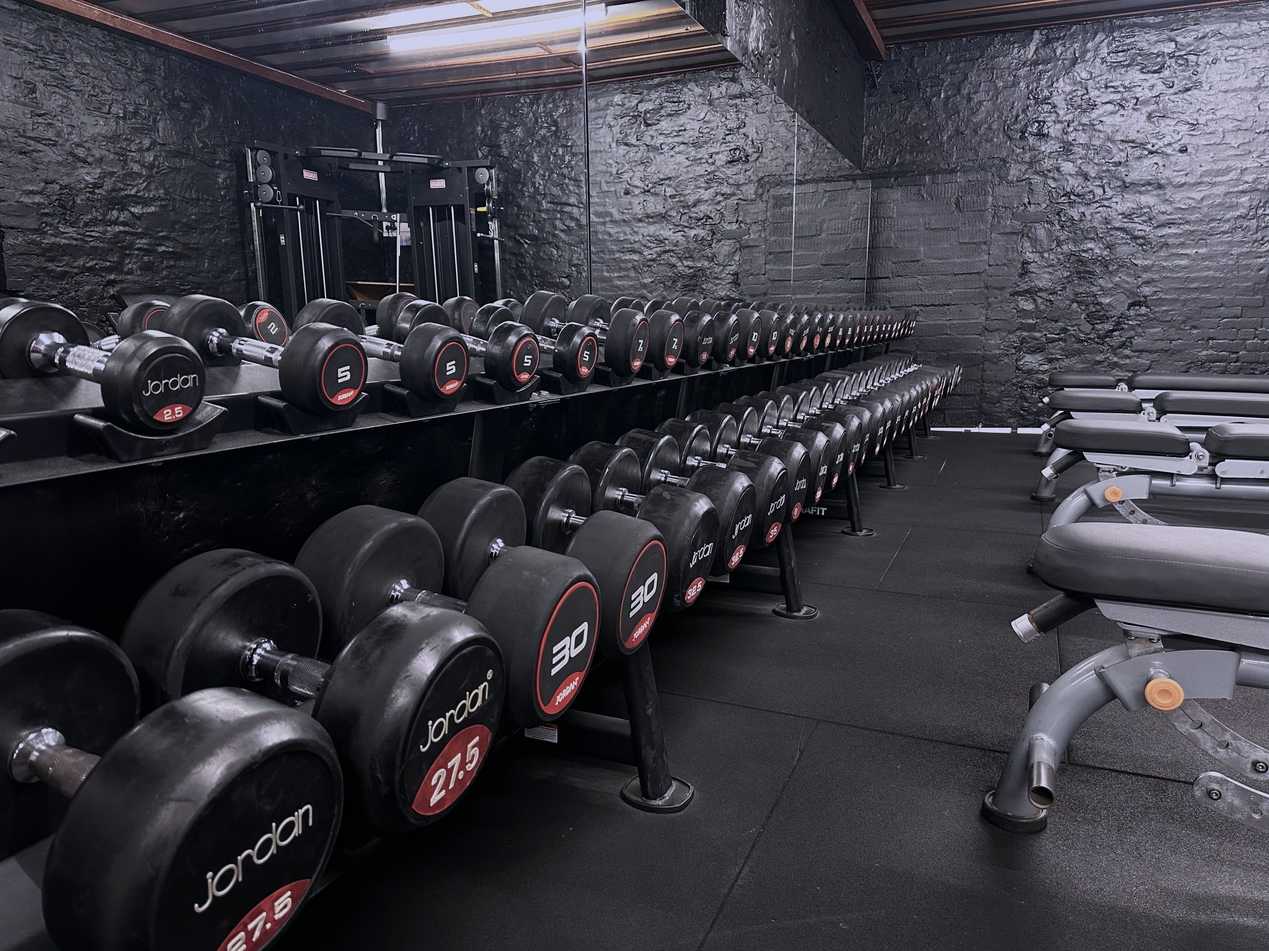
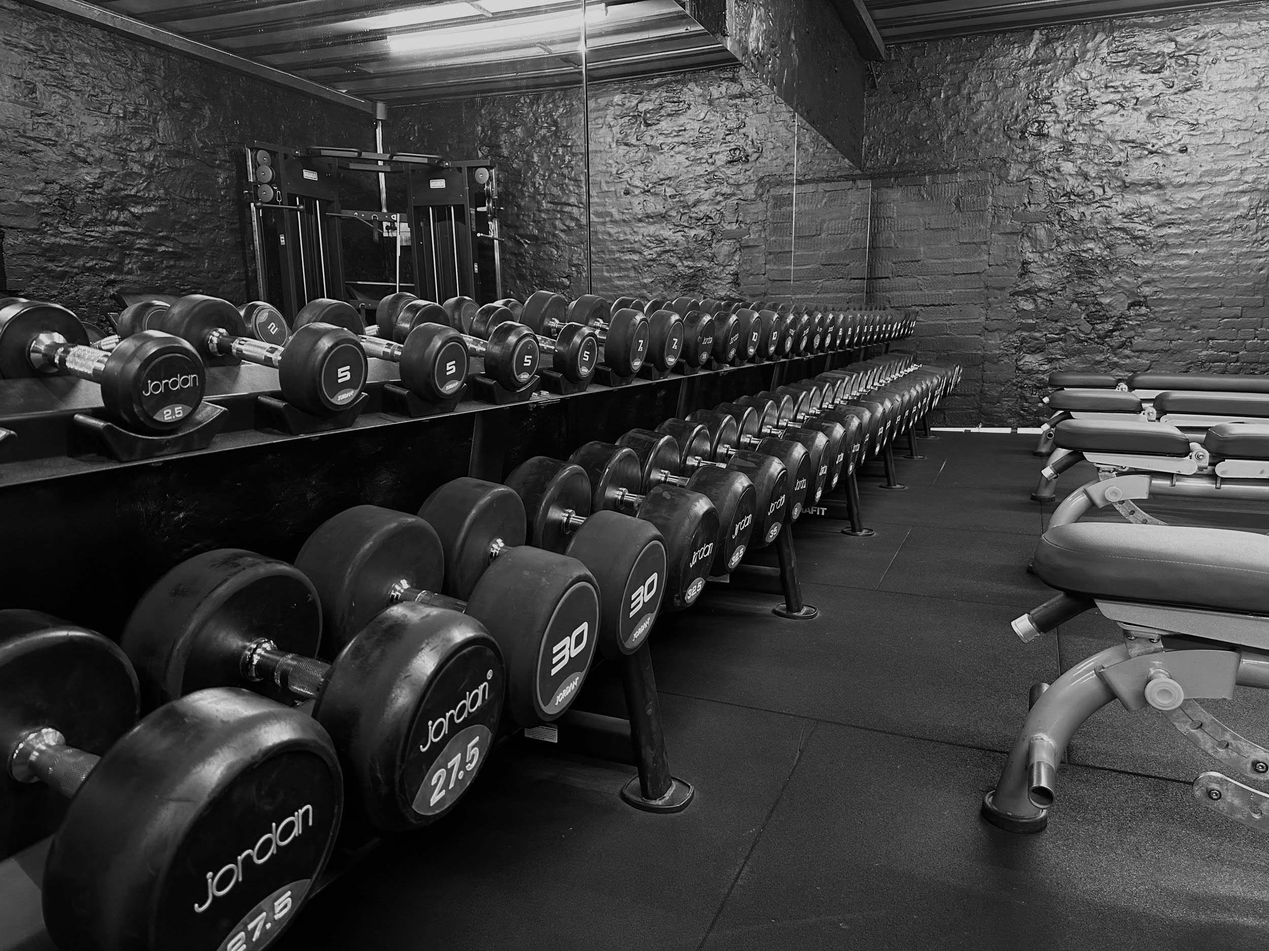
szinek valtoztak

diff --git a/WebTechMAOM60/styles.css b/WebTechMAOM60/styles.css
@@ -6,7 +6,7 @@ body {
 nav {
     background-color: #201e1e;
     overflow: hidden;
-    padding: 25px 0; /* Magasság növelése */
+    padding: 25px 0;
 }
 
 .container {
@@ -24,14 +24,15 @@ nav {
     font-size: 32px;
     transition: color 0.2s;
 }
-.logo a.active{
-    color: #099453;
-    border-top: 3px solid #099453;
+
+.logo a.active {
+    color: #bde608;
+    border-top: 3px solid #bde608;
     padding-top: 20px;
 }
 
 .logo a:hover {
-    color: #099453;
+    color: #bde608;
 }
 
 
@@ -55,22 +56,23 @@ nav {
 }
 
 .menu li a.active {
-    color:#099453;
-    border-top: 3px solid #099453;
+    color: #bde608;
+    border-top: 3px solid #bde608;
     padding-top: 25px;
 }
 
 .menu li a:hover {
-    color: #099453;
+    color: #bde608;
 }
 
-.menu li a:hover + .highlight, .menu li a.active + .highlight {
+.menu li a:hover+.highlight,
+.menu li a.active+.highlight {
     display: block;
 }
 
 .highlight {
     position: absolute;
-    background-color: #099453;
+    background-color: #bde608;
     height: 3px;
     width: calc(100% - 20px);
     bottom: -10px;
@@ -80,7 +82,7 @@ nav {
 
 .bottom-line {
     height: 4px;
-    background-color: #099453;
+    background-color: #bde608;
 }
 
 .quote-bar {
@@ -91,17 +93,18 @@ nav {
 
 .quote-text {
     font-size: 30px;
-    color: #099453;
+    color: #bde608;
     text-align: center;
     margin-top: -47px;
 }
 
 .teteje {
-    background-image: url("img/kondis_no2.webp"); 
+    background-image: url("img/kondis_no4.jpg");
     background-size: cover;
     background-position: center;
-    background-repeat: no-repeat; /* A háttérkép ne ismétlődjön meg */
+    background-repeat: no-repeat;
     height: 875px;
+    
     animation: slideIn 1s ease forwards;
 }
 
@@ -110,14 +113,15 @@ nav {
         transform: translateY(-10px);
         opacity: 0;
     }
+
     to {
         transform: translateY(0);
         opacity: 1;
     }
 }
 
-.teteje-text{
-    background-color: #099453a2;
+.teteje-text {
+    background-color: #bde608a2;
     margin-right: 1140px;
     font-style: italic;
     background-clip: padding-box;
@@ -128,33 +132,37 @@ nav {
     color: white;
 }
 
-.gomb1{
+.gomb1 {
     text-align: center;
     padding-top: 140px;
 }
 
 #scrollButton {
-    background-color: #099453;
+    background-color: #6b8300;
     color: #fff;
     border: none;
     padding: 10px 20px;
-    border-radius: 5px; /* Kerekített sarkok */
-    cursor: pointer; /* Mutató kurzor */
+    border-radius: 5px;
+    /* Kerekített sarkok */
+    cursor: pointer;
+    /* Mutató kurzor */
     font-size: 16px;
-    transition: background-color 0.3s; /* Áttűnést a háttérszín változására */
+    transition: background-color 0.2s;
 }
 
 #scrollButton:hover {
-    background-color: #01ff88; /* Háttérszín hover állapotban */
+    background-color: #bde608;
+    /* Háttérszín hover állapotban */
 }
 
-.kontakt{
+.kontakt {
     background-image: url(img/sulyok.jpg);
     background-size: cover;
     background-position: center;
     background-repeat: no-repeat;
     background-color: #423f3f;
     padding: 50px;
+    color: white;
 }
 
 .table1 {
@@ -164,7 +172,7 @@ nav {
     font-size: 30px;
 }
 
-.kontaktok{
+.kontaktok {
     width: 80px;
     height: auto;
 }
@@ -180,61 +188,41 @@ nav {
     transform: translateX(0);
 }
 
-.about{
-    text-align:center;
-    background-image:url(img/kondi.jpg);
+
+.about {
+    background-image: url(img/kondi.jpg);
     background-size: cover;
     background-position: center;
-    background-repeat: no-repeat; /* A háttérkép ne ismétlődjön meg */
-    height: 600px;
-    
-}
-
-.cim{
-    font-size: 30px;
-    font-style: italic;
-}
-
-.video-container{
-    justify-content:center;
-}
-
-video {
-    max-width: 70%;
-    height: auto; 
-}
-
-.video-controls {
+    background-repeat: no-repeat;
+    height: 800px;
     display: flex;
-    flex-direction: column;
+    justify-content: center;
+    align-items: center;
 }
 
-.video-controls button {
-    margin-bottom: 10px;
-    padding: 10px 20px;
-    border: none;
-    border-radius: 5px;
-    background-color: #099453;
-    color: white;
-    cursor: pointer;
-    font-size: 16px;
-    transition: background-color 0.2s ease;
-}
-
-.video-controls button:hover {
-    background-color: #01ff88;
-}
-
-#volumeRange {
-    width: 100%;
-}
-
-.about-text {
-    font-size: 20px;
-    text-align: justify;
+.sarga-teglalap {
+    width: 1300px;
+    height: 600px;
+    background-color: #485800a8;
+    justify-content: center;
 }
 
 .table2 {
-    max-width: 80%;
-    text-align: center;
+    display: flex;
+    justify-content: center;
+    align-items: center;
+}
+
+button {
+    background-color: #6b8300;
+    color: white;
+    padding: 10px 20px;
+    border: none;
+    border-radius: 5px;
+    cursor: pointer;
+    transition: background-color 0.2s;
+}
+
+button:hover {
+    background-color: #bde608;
 }

diff --git a/WebTechMAOM60/Landing_page.html b/WebTechMAOM60/Landing_page.html
@@ -47,55 +47,66 @@
     <section class="kontakt">
         <table class="table1 slide-in">
             <tr>
-                    <td><img class=kontaktok src="img/location.png" alt="Hely"></td>
-                    <td>Egyetemváros</td>
+                <td><img class=kontaktok src="img/location.png" alt="Hely"></td>
+                <td>Egyetemváros</td>
 
-                    <td><img class=kontaktok src="img/phone.png" alt="Telefon"></td>
-                    <td>0646/123-123</td>
+                <td><img class=kontaktok src="img/phone.png" alt="Telefon"></td>
+                <td>0646/123-123</td>
 
-                    <td><img class=kontaktok src="img/mail.png" alt="E-Mail"></td>
-                    <td>fiktivgym@gmail.com</td>
+                <td><img class=kontaktok src="img/mail.png" alt="E-Mail"></td>
+                <td>fiktivgym@gmail.com</td>
             </tr>
         </table>
     </section>
- 
+
     <div class="bottom-line"></div>
 
     <section class="about slide-in">
-        <div class="cim">
-            <h1>Rólunk</h1>
-        </div>
-        <div class="video-container">
+        <div class="sarga-teglalap">
             <table class="table2">
                 <tr>
+                    <td style="font-style: italic; font-size: 40px; color:white">
+                        <p>Rólunk</p>
+                    </td>
+                </tr>
+                <tr>
                     <td>
-                        <div class="video-controls">
-                            <button id="playPauseBtn">Lejátszás</button>
-                            <button id="muteBtn">Némítás</button>
-                        </div>
-                        <input id="volumeRange" type="range" min="0" max="100" value="100">
+                        <button onclick="playVideo()">Indít</button> <br><br>
+                        <button onclick="pauseVideo()">Megállít</button> <br><br>
+                        <button onclick="volumeDown()">Halkabb</button> <br><br>
+                        <button onclick="volumeUp()">Hangosabb</button> <br><br>
                     </td>
                     <td>
-                        <video id="myVideo" controls>
+                        <video id="myVideo" width="700" height="auto" controls>
                             <source src="img/gym-prom-video.mp4" type="video/mp4">
-                            Your browser does not support the video tag.
+                            A böngésződ nem támogatja a video elemet.
                         </video>
                     </td>
-                    <td class="about-text">
-                        <p>Egy konditerem, 2200 négyzetméteren, profi gépekkel és eszközökkel. <br>
-                             Egy hely, ahol mindenkinek egy célja van, közösségként, egymást  <br>
-                             támogatva fizikailag és lelkileg erősödni, fejlődni.           <br>
-                            Egy közösség, ahol minden korosztály élvezheti a mozgás örömét, <br>
-                            ahol az egészség a középpontba kerül, ahonnan bármikor erőt <br>
-                            meríthetsza mindennapok forgatagában. Eredményes edzést és <br>
-                            kellemes időtöltést kívánunk mindenkinek.</p>
+                    <td>
+                        <p style="font-size: 25px;color: white; font-style: italic;margin-left: 30px;">
+                            Egy konditerem, 2200 négyzetméteren, <br>
+                            profi gépekkel és eszközökkel.Egy hely, <br>
+                            ahol mindenkinek egy célja van, <br>
+                            közösségként, egymást támogatva <br>
+                            fizikailag és lelkileg erősödni, <br>
+                            fejlődni. Egy közösség, ahol minden <br>
+                            korosztály élvezheti a mozgás örömét, <br>
+                            ahol az egészség a középpontba kerül, <br>
+                            ahonnan bármikor erőt meríthetsz a <br>
+                            mindennapok forgatagában.
+                        </p>
                     </td>
                 </tr>
             </table>
         </div>
+
+    </section>
+    <div class="bottom-line"></div>
+    <section>
+
+
     </section>
 
-    
 
     <div class="bottom-line"></div>
     <script src="jquery-3.7.1.js"></script>

diff --git a/WebTechMAOM60/video.js b/WebTechMAOM60/video.js
@@ -1,30 +1,23 @@
-document.addEventListener("DOMContentLoaded", function() {
+function playVideo() {
     var video = document.getElementById("myVideo");
-    var playPauseBtn = document.getElementById("playPauseBtn");
-    var muteBtn = document.getElementById("muteBtn");
-    var volumeRange = document.getElementById("volumeRange");
+    video.play();
+}
 
-    playPauseBtn.addEventListener("click", function() {
-        if (video.paused) {
-            video.play();
-            playPauseBtn.innerHTML = "Megállítás";
-        } else {
-            video.pause();
-            playPauseBtn.innerHTML = "Lejátszás";
-        }
-    });
+function pauseVideo() {
+    var video = document.getElementById("myVideo");
+    video.pause();
+}
 
-    muteBtn.addEventListener("click", function() {
-        if (video.muted) {
-            video.muted = false;
-            muteBtn.innerHTML = "Némítás";
-        } else {
-            video.muted = true;
-            muteBtn.innerHTML = "Hang bekapcsolása";
-        }
-    });
+function volumeDown() {
+    var video = document.getElementById("myVideo");
+    if (video.volume >= 0.1) {
+        video.volume -= 0.1;
+    }
+}
 
-    volumeRange.addEventListener("input", function() {
-        video.volume = volumeRange.value / 100;
-    });
-});
+function volumeUp() {
+    var video = document.getElementById("myVideo");
+    if (video.volume <= 0.9) {
+        video.volume += 0.1;
+    }
+}
